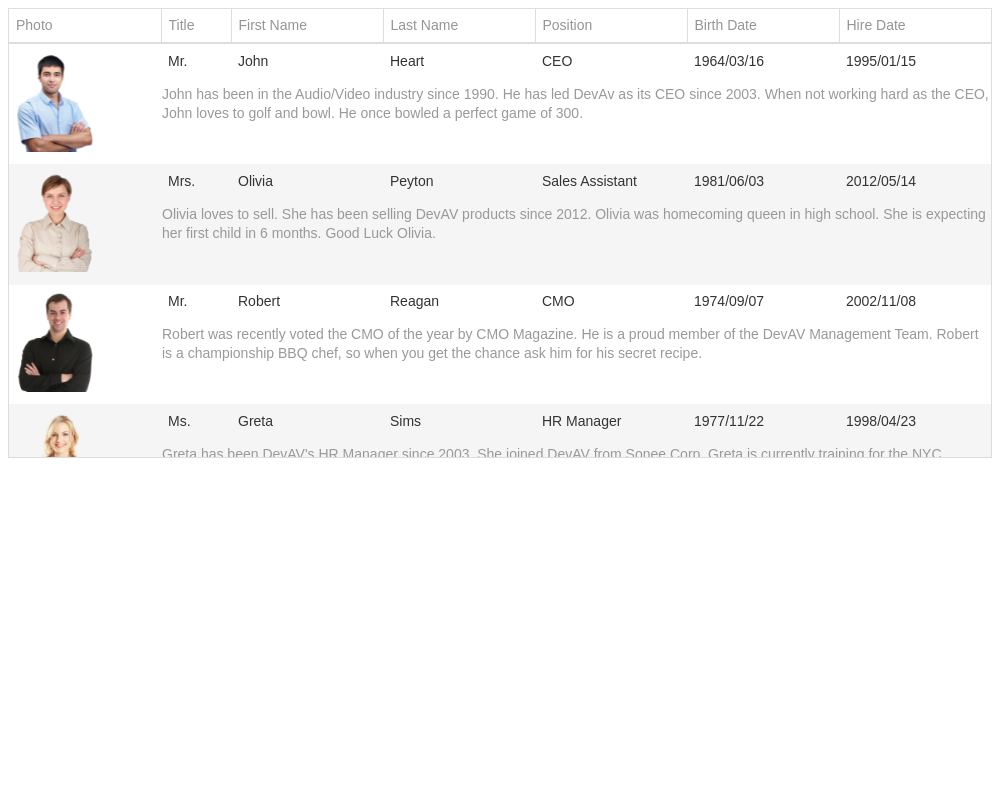
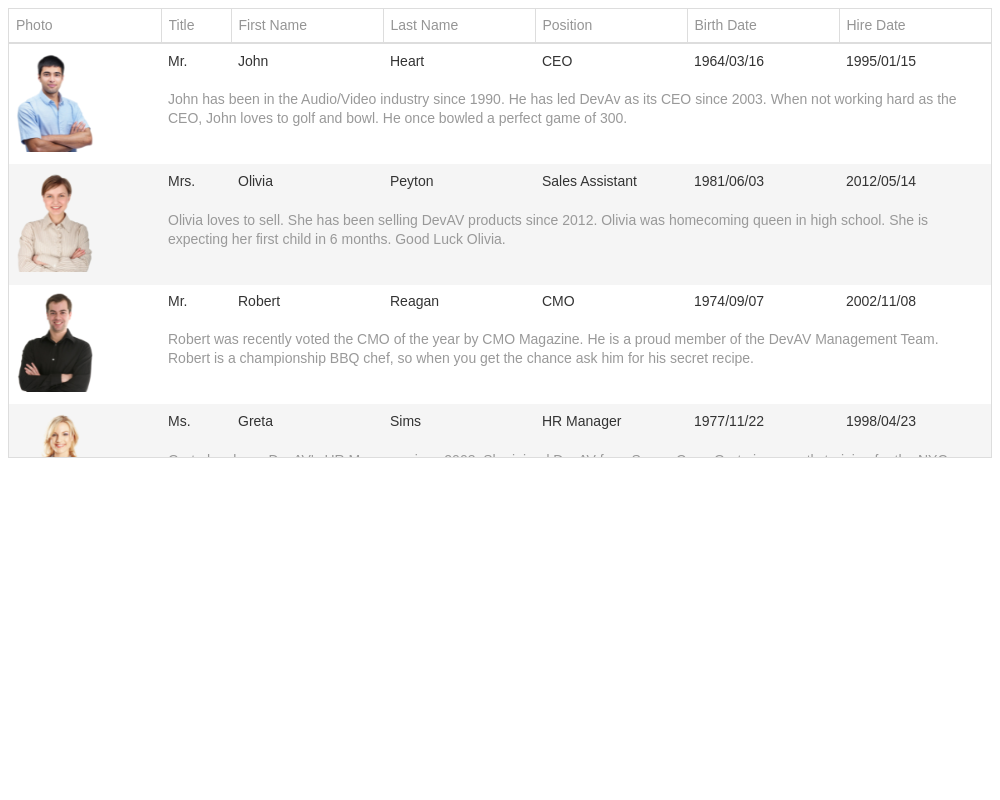
DataGrid: Replace rowTemplate to dataRowTemplate in the Row 3rd Party Engine Template demo (#1468)

diff --git a/JSDemos/Demos/DataGrid/Row3RdPartyEngineTemplate/jQuery/index.html b/JSDemos/Demos/DataGrid/Row3RdPartyEngineTemplate/jQuery/index.html
@@ -22,20 +22,18 @@
     <div class="demo-container">
       <div id="gridContainer"></div>
       <script id="gridRow" type="text/html">
-        <tbody class="employee <%= (rowIndex % 2) ? 'dx-row-alt' : '' %>">
-          <tr class="dx-row main-row">
-            <td rowspan="2"><img src="<%= data.Picture %>" /></td>
-            <td><%= data.Prefix %></td>
-            <td><%= data.FirstName %></td>
-            <td><%= data.LastName %></td>
-            <td><%= data.Position %></td>
-            <td><%= data.BirthDate %></td>
-            <td><%= data.HireDate %></td>
-          </tr>
-          <tr class="notes-row">
-            <td colspan="6"><div><%= data.Notes %></div></td>
-          </tr>
-        </tbody>
+        <tr class="main-row">
+          <td rowspan="2"><img src="<%= data.Picture %>" /></td>
+          <td><%= data.Prefix %></td>
+          <td><%= data.FirstName %></td>
+          <td><%= data.LastName %></td>
+          <td><%= data.Position %></td>
+          <td><%= data.BirthDate %></td>
+          <td><%= data.HireDate %></td>
+        </tr>
+        <tr class="notes-row">
+          <td colspan="6"><div><%= data.Notes %></div></td>
+        </tr>
       </script>
     </div>
   </body>

diff --git a/JSDemos/Demos/DataGrid/Row3RdPartyEngineTemplate/jQuery/styles.css b/JSDemos/Demos/DataGrid/Row3RdPartyEngineTemplate/jQuery/styles.css
@@ -24,22 +24,22 @@
   color: #777;
 }
 
-#gridContainer tbody.employee:hover {
+#gridContainer tbody.dx-state-hover {
   background-color: #ebebeb;
 }
 
-.dark #gridContainer tbody.employee:hover {
+.dark #gridContainer tbody.dx-state-hover {
   background-color: #484848;
 }
 
-#gridContainer tbody.employee:hover tr.main-row td {
+#gridContainer tbody.dx-state-hover tr.main-row td {
   color: #000;
 }
 
-.dark #gridContainer tbody.employee:hover tr.main-row td {
+.dark #gridContainer tbody.dx-state-hover tr.main-row td {
   color: #ccc;
 }
 
-#gridContainer tbody.employee:hover tr.notes-row td {
+#gridContainer tbody.dx-state-hover tr.notes-row td {
   color: #888;
 }

diff --git a/JSDemos/Demos/DataGrid/Row3RdPartyEngineTemplate/jQuery/index.js b/JSDemos/Demos/DataGrid/Row3RdPartyEngineTemplate/jQuery/index.js
@@ -5,7 +5,9 @@ $(() => {
     dataSource: employees,
     keyExpr: 'ID',
     showBorders: true,
-    rowTemplate: $('#gridRow'),
+    hoverStateEnabled: true,
+    rowAlternationEnabled: true,
+    dataRowTemplate: $('#gridRow'),
     columns: [{
       dataField: 'Photo',
       allowFiltering: false,
